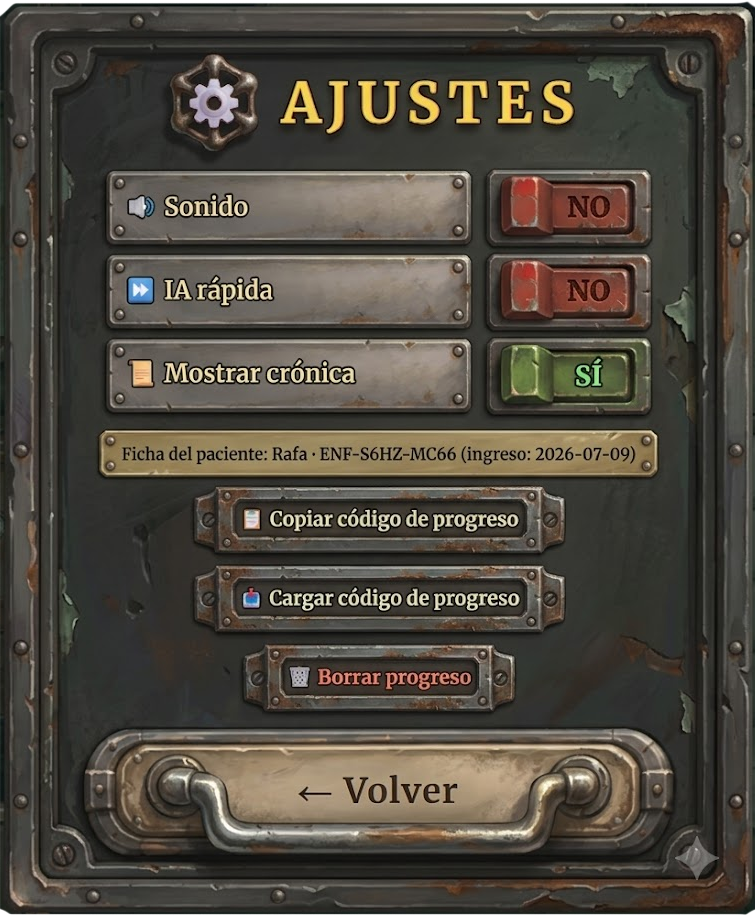
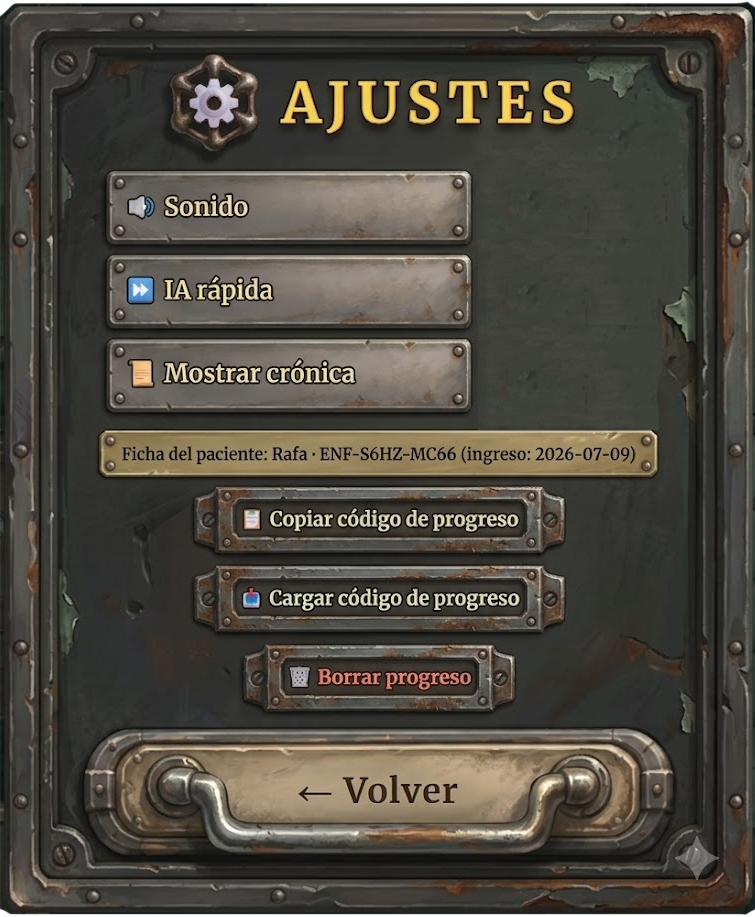
Menu de ajustes pintado (ajustes_UI) con interruptores SI/NO v3.7
- La pantalla de AJUSTES pasa a ser un escenario pintado (755x917,
  assets/ajustes_UI.png) al estilo de las demas: interruptores con los
  botones pintados boton_ajustes_si/no a la derecha de cada placa
  (posiciones afinadas escaneando los pixeles del panel), la banda de
  la ficha cubierta con los datos reales del paciente, zonas clicables
  sobre los botones pintados de copiar/cargar/borrar progreso y el asa
  de VOLVER. Escalado registrado en fitStage (755x917).
- Los interruptores .toggle usan los botones pintados EN TODO el juego:
  el menu de PAUSA tambien luce los SI/NO nuevos.
- Mismos IDs de siempre (set-sound/set-fast/set-log/btn-export-save...):
  el cableado no cambia.
- Android: versionCode 29 / versionName 3.7; etiqueta v3.7.

Changed region(s): [[0.6397, 0.1832, 0.8834, 0.458]]

diff --git a/css/style.css b/css/style.css
@@ -2509,19 +2509,51 @@ html, #game, #game * { cursor: url('../assets/mouse_cursor.png') 10 4, auto; }
   font-size: 18px;
   border-bottom: 1px solid rgba(184, 134, 11, .25);
 }
+/* interruptor SÍ/NO con los botones pintados (el texto viene en el arte) */
 .toggle {
-  font-family: inherit;
-  width: 70px;
-  padding: 6px 0;
-  font-size: 15px; font-weight: bold;
-  border-radius: 16px;
-  border: 2px solid #8a3a34;
-  background: #4a1d1d;
-  color: #ffb3ab;
+  width: 104px; height: 54px;
+  padding: 0;
+  border: none;
+  border-radius: 0;
+  background: url('../assets/boton_ajustes_no.png') center / 100% 100% no-repeat;
+  color: transparent;
+  font-size: 0;
   cursor: pointer;
+  filter: drop-shadow(0 2px 5px rgba(0, 0, 0, .45));
+  transition: filter .1s, transform .1s;
 }
-.toggle.on {
-  border-color: #3f7a4a;
-  background: #1d4a28;
-  color: #8dff9d;
+.toggle:hover { filter: brightness(1.15) drop-shadow(0 0 6px rgba(255, 220, 120, .5)); }
+.toggle:active { transform: scale(.96); }
+.toggle.on { background-image: url('../assets/boton_ajustes_si.png'); }
+
+/* ---------------- PANTALLA DE AJUSTES PINTADA (ajustes_UI.png) ---------------- */
+
+#settings-stage {
+  position: absolute;
+  left: 50%; top: 50%;
+  width: 755px; height: 917px;
+  transform: translate(-50%, -50%);
+  background: url('../assets/ajustes_UI.png') 0 0 / 100% 100% no-repeat;
 }
+/* interruptores a la derecha de cada placa pintada */
+#settings-stage .stg-toggle { position: absolute; left: 505px; width: 132px; height: 66px; }
+#set-sound { top: 170px; }
+#set-fast { top: 252px; }
+#set-log { top: 338px; }
+/* banda de la ficha: se cubre el texto de muestra con el dato real */
+#settings-profile {
+  position: absolute;
+  left: 104px; top: 429px;
+  width: 547px; height: 26px;
+  display: flex; align-items: center; justify-content: center;
+  background: linear-gradient(#d8bd7d, #b89a55);
+  border-radius: 5px;
+  font-size: 13.5px; font-weight: bold;
+  color: #2b1d0e;
+  white-space: nowrap; overflow: hidden;
+}
+/* zonas clicables sobre los botones pintados */
+#btn-export-save { left: 205px; top: 497px; width: 365px; height: 52px; }
+#btn-import-save { left: 205px; top: 570px; width: 365px; height: 52px; }
+#btn-reset-save { left: 283px; top: 651px; width: 210px; height: 48px; }
+#btn-settings-back { left: 95px; top: 743px; width: 565px; height: 120px; border-radius: 26px; }

diff --git a/index.html b/index.html
@@ -110,7 +110,7 @@
         <div class="coins-badge">💊 <span id="menu-coins">0</span> pastillas</div>
         <div id="menu-profile" class="profile-badge"></div>
       </div>
-      <div class="version-tag">v3.6</div>
+      <div class="version-tag">v3.7</div>
     </div>
   </div>
 
@@ -202,22 +202,18 @@
     </div>
   </div>
 
-  <!-- AJUSTES -->
+  <!-- AJUSTES (panel pintado en assets/ajustes_UI.png; los interruptores
+       usan boton_ajustes_si/no y el resto son zonas clicables) -->
   <div id="settings-screen" class="overlay hidden">
-    <div class="menu-box">
-      <h2 class="logo" style="font-size:40px">⚙️ AJUSTES</h2>
-      <div class="settings-list">
-        <div class="setting-row"><span>🔊 Sonido</span><button id="set-sound" class="toggle"></button></div>
-        <div class="setting-row"><span>⏩ IA rápida</span><button id="set-fast" class="toggle"></button></div>
-        <div class="setting-row"><span>📜 Mostrar crónica</span><button id="set-log" class="toggle"></button></div>
-      </div>
-      <div id="settings-profile" class="hint"></div>
-      <div class="menu-buttons">
-        <button id="btn-export-save" class="small-btn">📋 Copiar código de progreso</button>
-        <button id="btn-import-save" class="small-btn">📥 Cargar código de progreso</button>
-        <button id="btn-reset-save" class="small-btn danger">🗑️ Borrar progreso</button>
-        <button class="img-btn" data-back>← Volver</button>
-      </div>
+    <div id="settings-stage">
+      <button id="set-sound" class="toggle stg-toggle" title="Sonido"></button>
+      <button id="set-fast" class="toggle stg-toggle" title="IA rápida"></button>
+      <button id="set-log" class="toggle stg-toggle" title="Mostrar crónica"></button>
+      <div id="settings-profile"></div>
+      <button id="btn-export-save" class="painted-btn" title="Copiar código de progreso"></button>
+      <button id="btn-import-save" class="painted-btn" title="Cargar código de progreso"></button>
+      <button id="btn-reset-save" class="painted-btn" title="Borrar progreso"></button>
+      <button id="btn-settings-back" class="painted-btn" data-back aria-label="Volver"></button>
     </div>
   </div>
 

diff --git a/js/ui.js b/js/ui.js
@@ -1027,6 +1027,11 @@ function fitStage() {
     const s5 = Math.min(window.innerWidth / 966, window.innerHeight / 1080);
     sts.style.transform = `translate(-50%, -50%) scale(${s5})`;
   }
+  const ags = $('#settings-stage');
+  if (ags) {
+    const s6 = Math.min(window.innerWidth / 755, window.innerHeight / 917);
+    ags.style.transform = `translate(-50%, -50%) scale(${s6})`;
+  }
 }
 
 /* ---------------- PANTALLA COMPLETA (navegador) ---------------- */